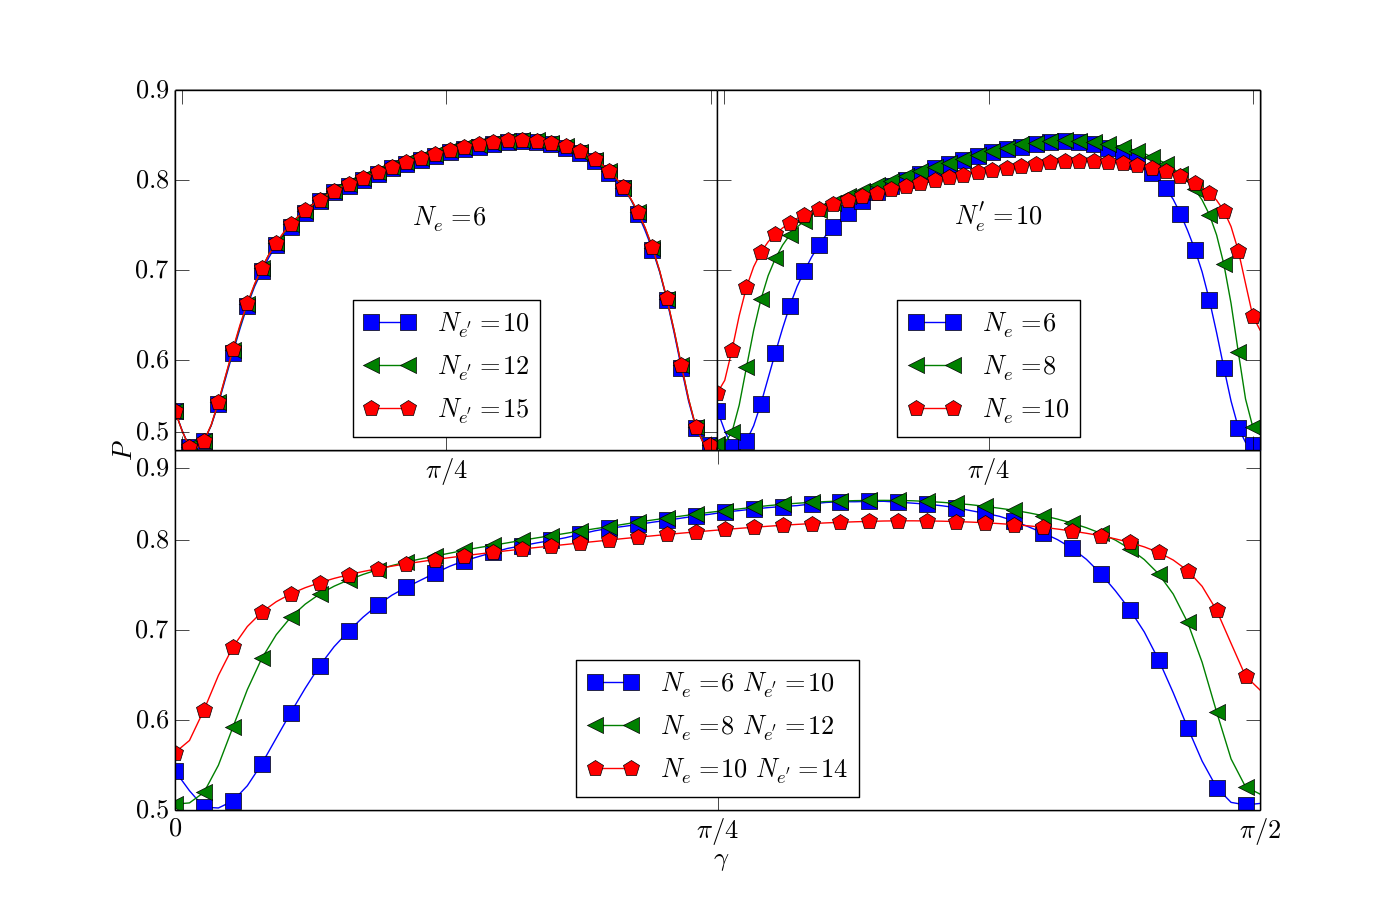
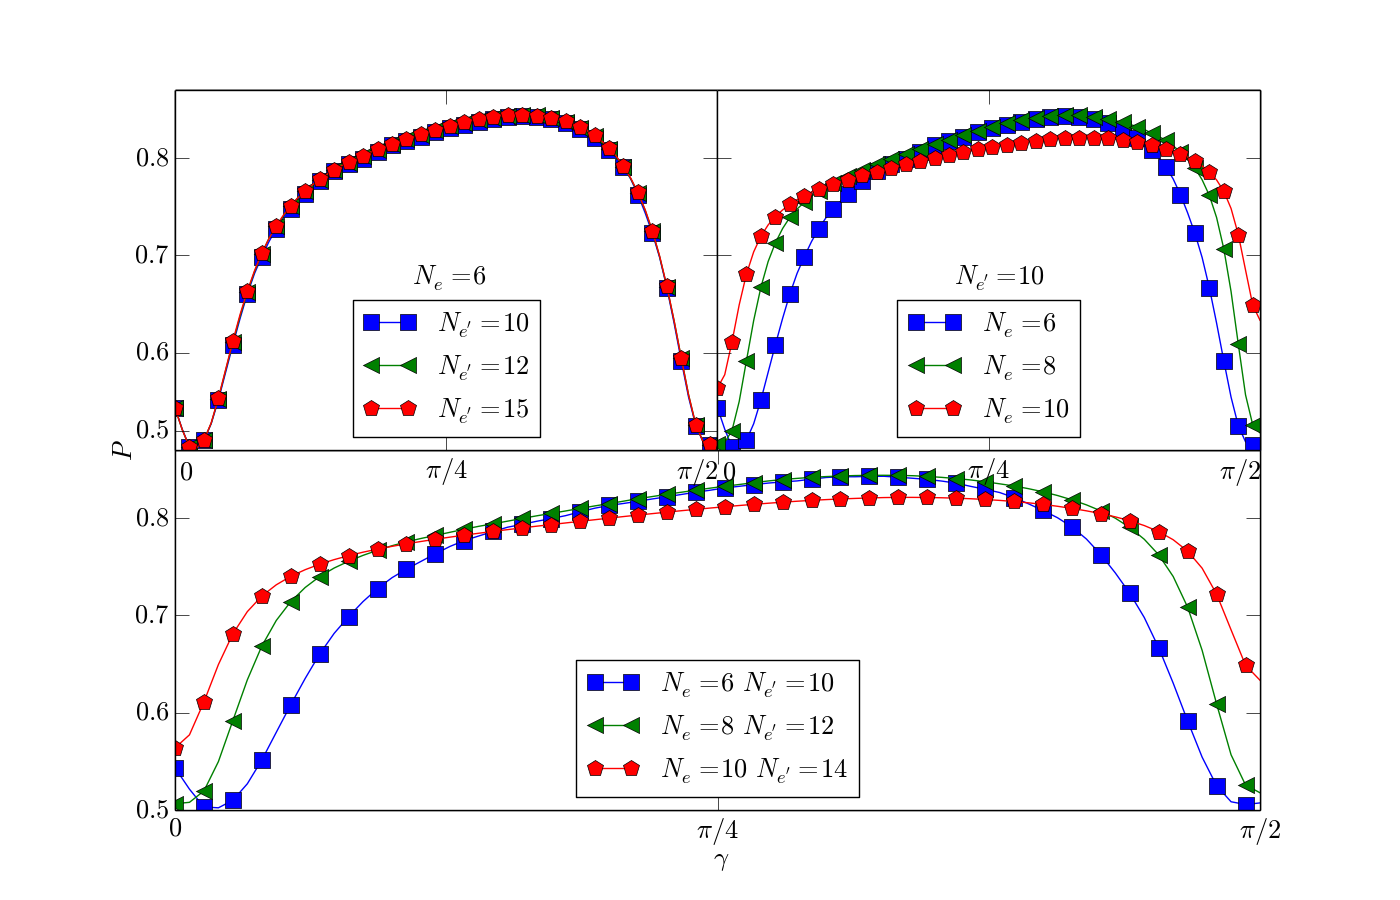
Update

diff --git a/gPlateau.py b/gPlateau.py
@@ -4,32 +4,36 @@ from pylab import *
 
 a=loadtxt("plateau1.dat")
 b=loadtxt("plateau2.dat")
+c=loadtxt("plateau3_pi.dat")
+d=loadtxt("plateau4_pi2.dat")
+
+
 
 i=linspace(0,pi,151)
 
 lines=['s-','<-','p-','v-','D-','H-','D-','h-','>-','H-','d-','x-','s-','+-']
 
 
-plot(i,a,lines[0],label='$\gamma=80\lambda$',markersize=10)
-plot(i,b,lines[1],label='$\gamma=100\lambda$',markersize=10)
+#plot(i,a,lines[0],label='$\gamma=80\lambda$',markersize=10)
+plot(i,b,lines[2],label='$\gamma=100\lambda$',markersize=10)
+plot(i,c,lines[0],label='$|b|=\pi$',markersize=10)
+plot(i,d,lines[1],label='$|b|=\pi/2$',markersize=10)
 
-
-
-#xlabel("$|b|$",fontsize=17)
+xlabel("$\gamma$",fontsize=17)
 #xticks((0,pi/2,pi,(3/2.)*pi,2*pi),('$0$','$\pi/2$','$\pi$','$3/2\pi$','$2\pi$','$\pi/\sqrt{2}$'),fontsize=17)
 #yticks((0.9,.91,.92,.88,.89),('$0.9$','$0.91$','$0.92$','$0.88$','$0.89$'),fontsize=17)
-#ylabel("$P$",fontsize=17)
+ylabel("$P$",fontsize=17)
 
-##legend(loc='upper right',fontsize=17)
+#legend(loc='upper right',fontsize=17)
 
-##axis([0,2*pi+.1,.88,.91])
+#axis([0,2*pi+.1,.88,.91])
 
-##tick_params(axis='both',          # changes apply to the x-axis
-    ##which='both',      # both major and minor ticks are affected
-    ##bottom='on',      # ticks along the bottom edge are off
-    ##top='on',         # ticks along the top edge are off
-    ##labelbottom='on',
-    ##length=10)
+#tick_params(axis='both',          # changes apply to the x-axis
+    #which='both',      # both major and minor ticks are affected
+    #bottom='on',      # ticks along the bottom edge are off
+    #top='on',         # ticks along the top edge are off
+    #labelbottom='on',
+    #length=10)
 
 
 show()

diff --git a/g5.py b/g5.py
@@ -56,13 +56,19 @@ for i in range(1,4) :
 
 
 
-xticks(arange(0,pi/2+.1,pi/4),('$0$','$\pi/4$','$\pi/2$'),fontsize=19)
+xticks((0,pi/4,pi/2),('$0$','$\pi/4$','$\pi/2$'),fontsize=19)
 
 
 yticks((0.88,0.8,0.7,0.6,0.5),('$0.9$','$0.8$','$0.7$','$0.6$','$0.5$'),fontsize=19)
 
 
-axis([0,pi/2,.5,.9])
+text(0+.006,0.84,"$0$",fontsize=19)
+text(pi/4-0.06,0.84,"$\pi/2$",fontsize=19)
+text(pi/4+0.006,0.84,"$0$",fontsize=19)
+text(pi/2-0.06,0.84,"$\pi/2$",fontsize=19)
+
+
+axis([0,pi/2,.5,.87])
 
 legend(loc='lower center',fontsize=19)
 
@@ -95,15 +101,15 @@ for i in range(1,4) :
 
 
 
-xticks((.02,pi/4,pi/2-.02),('','$\pi/4$',''),fontsize=19)
+xticks((.0,pi/4,pi/2),('','$\pi/4$',''),fontsize=19)
 
 
 yticks((0.9,0.8,0.7,0.6,0.52),('$0.9$','$0.8$','$0.7$','$0.6$','$0.5$'),fontsize=19)
 
 
-axis([0,pi/2,.5,.9])
+axis([0,pi/2,.5,.87])
 
-text(pi/4-.1,0.75,'$N_e=6$',fontsize=19)
+text(pi/4-.1,0.67,'$N_e=6$',fontsize=19)
 
 legend(loc='lower center',fontsize=19)
 
@@ -123,17 +129,17 @@ for i in range(1,4) :
 
 
 
-xticks((.02,pi/4,pi/2-.02),('','$\pi/4$',''),fontsize=19)
+xticks((.0,pi/4,pi/2),('','$\pi/4$',''),fontsize=19)
 
 
 yticks((0.9,0.8,0.7,0.6,0.5),('','','','',''),fontsize=19)
 
 
-axis([0,pi/2,.5,.9])
+axis([0,pi/2,.5,.87])
 
 legend(loc='lower center',fontsize=19)
 
-text(pi/4-.1,0.75,"$N_e^{\prime}=10$",fontsize=19)
+text(pi/4-.1,0.67,"$N_{e^{\prime}}=10$",fontsize=19)
 
 tick_params(axis='both',          # changes apply to the x-axis
     which='both',      # both major and minor ticks are affected

diff --git a/gVarmag.py b/gVarmag.py
@@ -5,23 +5,25 @@ from pylab import *
 a=loadtxt("VarMagnetic.dat")
 b=loadtxt("VarMagnetic2.dat")
 c=loadtxt("VarMagnetic3.dat")
-d=loadtxt("VarMagnetic4.dat")
+#d=loadtxt("VarMagnetic4.dat")
 i=sqrt(2)*linspace(0,2*pi,300)
 
+lines=['s-','<-','p-','v-','D-','H-','D-','h-','>-','H-','d-','x-','s-','+-']
 
 
-plot(i,a,label='$\gamma=80\lambda$',linewidth=2)
-plot(i,b,label='$\gamma=100\lambda$',linewidth=2)
-plot(i,c,label='$\gamma=120\lambda$',linewidth=2)
-plot(i,d,label='$\gamma=50\lambda$',linewidth=2)
+
+plot(i,a,lines[0],label='$\gamma=80\lambda$',markersize=10,markevery=5)
+plot(i,b,lines[1],label='$\gamma=100\lambda$',markersize=10,markevery=5)
+plot(i,c,lines[2],label='$\gamma=120\lambda$',markersize=10,markevery=5)
+#plot(i,d,lines[3],label='$\gamma=50\lambda$',markersize=10)
 xlabel("$|b|$",fontsize=17)
 xticks((0,pi/2,pi,(3/2.)*pi,2*pi),('$0$','$\pi/2$','$\pi$','$3/2\pi$','$2\pi$','$\pi/\sqrt{2}$'),fontsize=17)
-yticks((0.9,.91,.92,.88,.89),('$0.9$','$0.91$','$0.92$','$0.88$','$0.89$'),fontsize=17)
+yticks((0.9,.91,.92,.88,.89,.87,.86,.85),('$0.9$','$0.91$','$0.92$','$0.88$','$0.89$','$0.87$','$0.86$','$0.85$'),fontsize=17)
 ylabel("$P$",fontsize=17)
 
 legend(loc='upper right',fontsize=17)
 
-axis([0,sqrt(2)*2*pi+.1,.85,.93])
+axis([0,2*pi,.85,.93])
 
 tick_params(axis='both',          # changes apply to the x-axis
     which='both',      # both major and minor ticks are affected

diff --git a/gDeltaZ.py b/gDeltaZ.py
@@ -1,0 +1,27 @@
+from pylab import *
+
+
+a=loadtxt("deltaZ.dat")
+i=linspace(0,2*pi,300)
+
+
+plot(i,a,label='$\gamma=80\lambda$',linewidth=2)
+
+#xlabel("$\delta_z$",fontsize=17)
+#xticks((0,pi/2,pi,(3/2.)*pi,2*pi),('$0$','$\pi/2$','$\pi$','$3/2\pi$','$2\pi$','$\pi/\sqrt{2}$'),fontsize=17)
+#yticks((0.9,.91,.92,.88,.89),('$0.9$','$0.91$','$0.92$','$0.88$','$0.89$'),fontsize=17)
+#ylabel("$P$",fontsize=17)
+
+#legend(loc='upper right',fontsize=17)
+
+#axis([0,2*pi,.5,.9])
+
+tick_params(axis='both',          # changes apply to the x-axis
+    which='both',      # both major and minor ticks are affected
+    bottom='on',      # ticks along the bottom edge are off
+    top='on',         # ticks along the top edge are off
+    labelbottom='on',
+    length=10)
+
+
+show()
